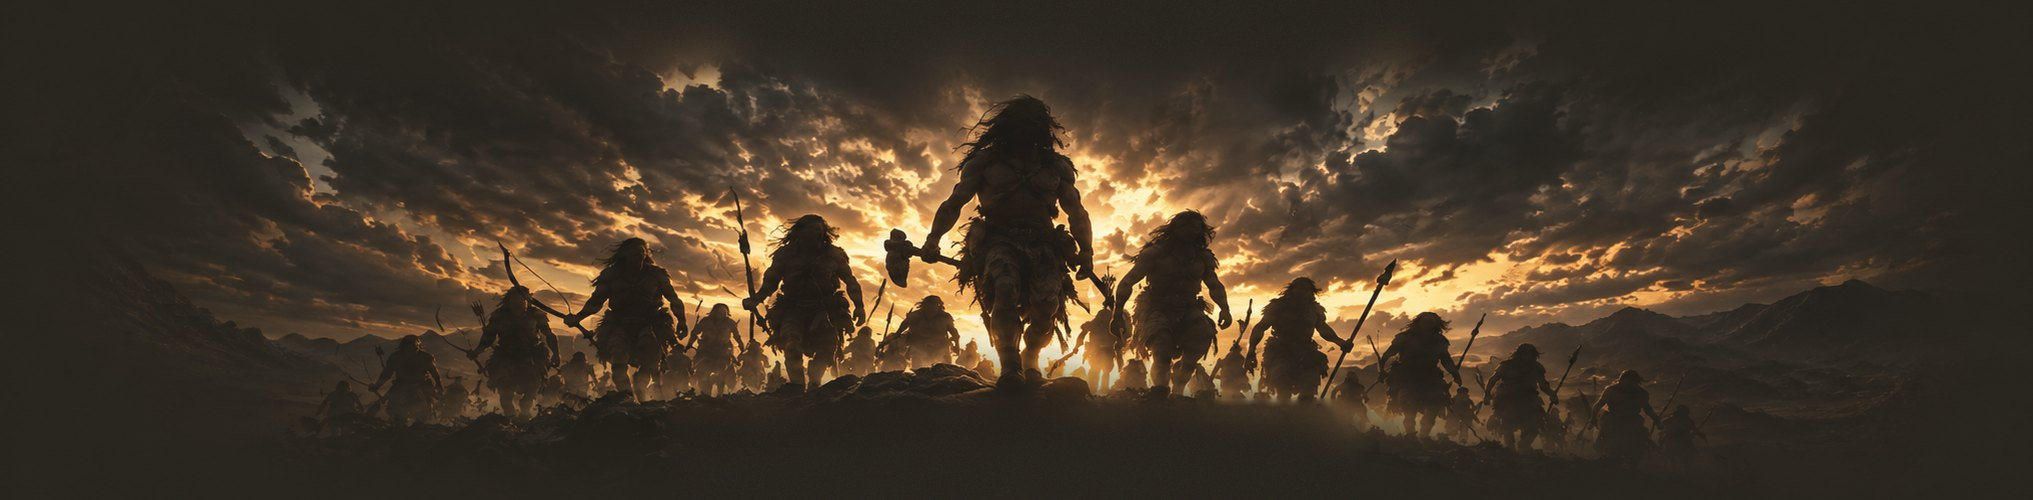
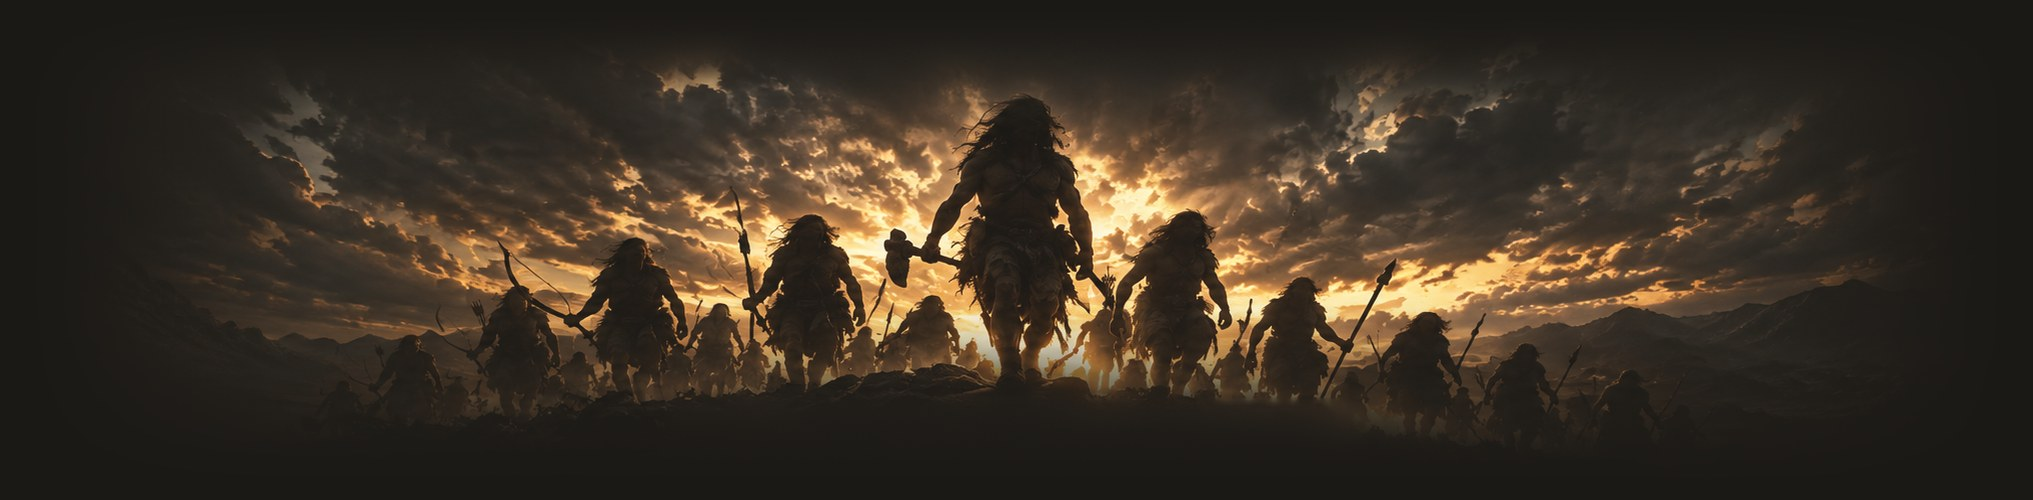
Dawn image: edges baked to page colour, rising gradually into full colour
Claude-Session: https://claude.ai/code/session_01HsxCT5iLPDw7ArFCNnKZ7W

diff --git a/assets/css/site.css b/assets/css/site.css
@@ -107,9 +107,6 @@ html[data-second="zh"] .bi.inline .s[lang="zh"] { display: inline; }
 /* dawn: a band of early humans advancing out of the dawn, set in the flow under the creed */
 .hero .dawn-wrap { display: block; position: relative; width: min(1180px, 100%); margin: 0 auto; pointer-events: none; }
 .hero .dawn { width: 100%; height: auto; aspect-ratio: auto; display: block;
-  -webkit-mask-image: linear-gradient(to bottom, transparent 0, #000 12%, #000 80%, transparent 100%), linear-gradient(to right, transparent 0, #000 10%, #000 90%, transparent 100%);
-  mask-image: linear-gradient(to bottom, transparent 0, #000 12%, #000 80%, transparent 100%), linear-gradient(to right, transparent 0, #000 10%, #000 90%, transparent 100%);
-  -webkit-mask-composite: source-in; mask-composite: intersect;
   animation: dawn-rise 4s ease-out both; }
 @keyframes dawn-rise { from { opacity: 0; } to { opacity: 1; } }
 @media (prefers-reduced-motion: reduce) { .hero .dawn { animation: none; } }
@@ -543,4 +540,4 @@ a.event-row:hover .title { color: var(--copper-light); }
 .register > * { min-width: 0; }
 @media (max-width: 400px) { .heritage-item.is-origin .dish-name { font-size: 32px; } }
 .hero::after { display: none; }
-@media (max-width: 700px) { .hero .dawn-wrap { width: calc(100% + 2 * var(--gutter)); margin: 0 calc(-1 * var(--gutter)); } .hero .dawn { aspect-ratio: 2 / 1; object-fit: cover; object-position: 50% 55%; } }
+@media (max-width: 700px) { .hero .dawn-wrap { width: calc(100% + 2 * var(--gutter)); margin: 0 calc(-1 * var(--gutter)); } .hero .dawn { aspect-ratio: 2 / 1; object-fit: cover; object-position: 50% 55%; -webkit-mask-image: linear-gradient(to right, transparent 0, #000 18%, #000 82%, transparent 100%); mask-image: linear-gradient(to right, transparent 0, #000 18%, #000 82%, transparent 100%); } }

diff --git a/heritage-item.html b/heritage-item.html
@@ -18,7 +18,7 @@
 <link rel="preconnect" href="https://fonts.googleapis.com">
 <link rel="preconnect" href="https://fonts.gstatic.com" crossorigin>
 <link href="https://fonts.googleapis.com/css2?family=Cormorant+Garamond:ital,wght@0,400;0,500;0,600;1,500&family=EB+Garamond:wght@400;500&family=Noto+Serif+KR:wght@400;500&display=swap" rel="stylesheet">
-<link rel="stylesheet" href="assets/css/site.css?v=202610190733">
+<link rel="stylesheet" href="assets/css/site.css?v=202610190738">
 </head>
 <body data-page="heritageitem">
 <header id="site-header"></header>
@@ -27,6 +27,6 @@
 </main>
 <footer id="site-footer"></footer>
 <noscript><p class="noscript">This site needs JavaScript to show its content.</p></noscript>
-<script src="assets/js/site.js?v=202610190733"></script>
+<script src="assets/js/site.js?v=202610190738"></script>
 </body>
 </html>

diff --git a/barbecuers.html b/barbecuers.html
@@ -18,7 +18,7 @@
 <link rel="preconnect" href="https://fonts.googleapis.com">
 <link rel="preconnect" href="https://fonts.gstatic.com" crossorigin>
 <link href="https://fonts.googleapis.com/css2?family=Cormorant+Garamond:ital,wght@0,400;0,500;0,600;1,500&family=EB+Garamond:wght@400;500&family=Noto+Serif+KR:wght@400;500&display=swap" rel="stylesheet">
-<link rel="stylesheet" href="assets/css/site.css?v=202610190733">
+<link rel="stylesheet" href="assets/css/site.css?v=202610190738">
 </head>
 <body data-page="barbecuers">
 <header id="site-header"></header>
@@ -36,6 +36,6 @@
 </main>
 <footer id="site-footer"></footer>
 <noscript><p class="noscript">This site needs JavaScript to show its content.</p></noscript>
-<script src="assets/js/site.js?v=202610190733"></script>
+<script src="assets/js/site.js?v=202610190738"></script>
 </body>
 </html>

diff --git a/federation.html b/federation.html
@@ -18,7 +18,7 @@
 <link rel="preconnect" href="https://fonts.googleapis.com">
 <link rel="preconnect" href="https://fonts.gstatic.com" crossorigin>
 <link href="https://fonts.googleapis.com/css2?family=Cormorant+Garamond:ital,wght@0,400;0,500;0,600;1,500&family=EB+Garamond:wght@400;500&family=Noto+Serif+KR:wght@400;500&display=swap" rel="stylesheet">
-<link rel="stylesheet" href="assets/css/site.css?v=202610190733">
+<link rel="stylesheet" href="assets/css/site.css?v=202610190738">
 </head>
 <body data-page="federation">
 <header id="site-header"></header>
@@ -48,6 +48,6 @@
 </main>
 <footer id="site-footer"></footer>
 <noscript><p class="noscript">This site needs JavaScript to show its content.</p></noscript>
-<script src="assets/js/site.js?v=202610190733"></script>
+<script src="assets/js/site.js?v=202610190738"></script>
 </body>
 </html>

diff --git a/barbecuer.html b/barbecuer.html
@@ -18,7 +18,7 @@
 <link rel="preconnect" href="https://fonts.googleapis.com">
 <link rel="preconnect" href="https://fonts.gstatic.com" crossorigin>
 <link href="https://fonts.googleapis.com/css2?family=Cormorant+Garamond:ital,wght@0,400;0,500;0,600;1,500&family=EB+Garamond:wght@400;500&family=Noto+Serif+KR:wght@400;500&display=swap" rel="stylesheet">
-<link rel="stylesheet" href="assets/css/site.css?v=202610190733">
+<link rel="stylesheet" href="assets/css/site.css?v=202610190738">
 </head>
 <body data-page="barbecuer">
 <header id="site-header"></header>
@@ -27,6 +27,6 @@
 </main>
 <footer id="site-footer"></footer>
 <noscript><p class="noscript">This site needs JavaScript to show its content.</p></noscript>
-<script src="assets/js/site.js?v=202610190733"></script>
+<script src="assets/js/site.js?v=202610190738"></script>
 </body>
 </html>

diff --git a/chronicle.html b/chronicle.html
@@ -18,7 +18,7 @@
 <link rel="preconnect" href="https://fonts.googleapis.com">
 <link rel="preconnect" href="https://fonts.gstatic.com" crossorigin>
 <link href="https://fonts.googleapis.com/css2?family=Cormorant+Garamond:ital,wght@0,400;0,500;0,600;1,500&family=EB+Garamond:wght@400;500&family=Noto+Serif+KR:wght@400;500&display=swap" rel="stylesheet">
-<link rel="stylesheet" href="assets/css/site.css?v=202610190733">
+<link rel="stylesheet" href="assets/css/site.css?v=202610190738">
 </head>
 <body data-page="chronicle">
 <header id="site-header"></header>
@@ -30,6 +30,6 @@
 </main>
 <footer id="site-footer"></footer>
 <noscript><p class="noscript">This site needs JavaScript to show its content.</p></noscript>
-<script src="assets/js/site.js?v=202610190733"></script>
+<script src="assets/js/site.js?v=202610190738"></script>
 </body>
 </html>

diff --git a/404.html b/404.html
@@ -18,7 +18,7 @@
 <link rel="preconnect" href="https://fonts.googleapis.com">
 <link rel="preconnect" href="https://fonts.gstatic.com" crossorigin>
 <link href="https://fonts.googleapis.com/css2?family=Cormorant+Garamond:ital,wght@0,400;0,500;0,600;1,500&family=EB+Garamond:wght@400;500&family=Noto+Serif+KR:wght@400;500&display=swap" rel="stylesheet">
-<link rel="stylesheet" href="assets/css/site.css?v=202610190733">
+<link rel="stylesheet" href="assets/css/site.css?v=202610190738">
 </head>
 <body data-page="notfound">
 <header id="site-header"></header>
@@ -30,6 +30,6 @@
 </main>
 <footer id="site-footer"></footer>
 <noscript><p class="noscript">This site needs JavaScript to show its content.</p></noscript>
-<script src="assets/js/site.js?v=202610190733"></script>
+<script src="assets/js/site.js?v=202610190738"></script>
 </body>
 </html>

diff --git a/heritage.html b/heritage.html
@@ -18,7 +18,7 @@
 <link rel="preconnect" href="https://fonts.googleapis.com">
 <link rel="preconnect" href="https://fonts.gstatic.com" crossorigin>
 <link href="https://fonts.googleapis.com/css2?family=Cormorant+Garamond:ital,wght@0,400;0,500;0,600;1,500&family=EB+Garamond:wght@400;500&family=Noto+Serif+KR:wght@400;500&display=swap" rel="stylesheet">
-<link rel="stylesheet" href="assets/css/site.css?v=202610190733">
+<link rel="stylesheet" href="assets/css/site.css?v=202610190738">
 </head>
 <body data-page="heritage">
 <header id="site-header"></header>
@@ -48,6 +48,6 @@
 </main>
 <footer id="site-footer"></footer>
 <noscript><p class="noscript">This site needs JavaScript to show its content.</p></noscript>
-<script src="assets/js/site.js?v=202610190733"></script>
+<script src="assets/js/site.js?v=202610190738"></script>
 </body>
 </html>

diff --git a/partners.html b/partners.html
@@ -18,7 +18,7 @@
 <link rel="preconnect" href="https://fonts.googleapis.com">
 <link rel="preconnect" href="https://fonts.gstatic.com" crossorigin>
 <link href="https://fonts.googleapis.com/css2?family=Cormorant+Garamond:ital,wght@0,400;0,500;0,600;1,500&family=EB+Garamond:wght@400;500&family=Noto+Serif+KR:wght@400;500&display=swap" rel="stylesheet">
-<link rel="stylesheet" href="assets/css/site.css?v=202610190733">
+<link rel="stylesheet" href="assets/css/site.css?v=202610190738">
 </head>
 <body data-page="partners">
 <header id="site-header"></header>
@@ -36,6 +36,6 @@
 </main>
 <footer id="site-footer"></footer>
 <noscript><p class="noscript">This site needs JavaScript to show its content.</p></noscript>
-<script src="assets/js/site.js?v=202610190733"></script>
+<script src="assets/js/site.js?v=202610190738"></script>
 </body>
 </html>

diff --git a/rankings.html b/rankings.html
@@ -18,7 +18,7 @@
 <link rel="preconnect" href="https://fonts.googleapis.com">
 <link rel="preconnect" href="https://fonts.gstatic.com" crossorigin>
 <link href="https://fonts.googleapis.com/css2?family=Cormorant+Garamond:ital,wght@0,400;0,500;0,600;1,500&family=EB+Garamond:wght@400;500&family=Noto+Serif+KR:wght@400;500&display=swap" rel="stylesheet">
-<link rel="stylesheet" href="assets/css/site.css?v=202610190733">
+<link rel="stylesheet" href="assets/css/site.css?v=202610190738">
 </head>
 <body data-page="rankings">
 <header id="site-header"></header>
@@ -36,6 +36,6 @@
 </main>
 <footer id="site-footer"></footer>
 <noscript><p class="noscript">This site needs JavaScript to show its content.</p></noscript>
-<script src="assets/js/site.js?v=202610190733"></script>
+<script src="assets/js/site.js?v=202610190738"></script>
 </body>
 </html>

diff --git a/pathway.html b/pathway.html
@@ -18,7 +18,7 @@
 <link rel="preconnect" href="https://fonts.googleapis.com">
 <link rel="preconnect" href="https://fonts.gstatic.com" crossorigin>
 <link href="https://fonts.googleapis.com/css2?family=Cormorant+Garamond:ital,wght@0,400;0,500;0,600;1,500&family=EB+Garamond:wght@400;500&family=Noto+Serif+KR:wght@400;500&display=swap" rel="stylesheet">
-<link rel="stylesheet" href="assets/css/site.css?v=202610190733">
+<link rel="stylesheet" href="assets/css/site.css?v=202610190738">
 </head>
 <body data-page="pathway">
 <header id="site-header"></header>
@@ -33,6 +33,6 @@
 </main>
 <footer id="site-footer"></footer>
 <noscript><p class="noscript">This site needs JavaScript to show its content.</p></noscript>
-<script src="assets/js/site.js?v=202610190733"></script>
+<script src="assets/js/site.js?v=202610190738"></script>
 </body>
 </html>

diff --git a/writing.html b/writing.html
@@ -18,7 +18,7 @@
 <link rel="preconnect" href="https://fonts.googleapis.com">
 <link rel="preconnect" href="https://fonts.gstatic.com" crossorigin>
 <link href="https://fonts.googleapis.com/css2?family=Cormorant+Garamond:ital,wght@0,400;0,500;0,600;1,500&family=EB+Garamond:wght@400;500&family=Noto+Serif+KR:wght@400;500&display=swap" rel="stylesheet">
-<link rel="stylesheet" href="assets/css/site.css?v=202610190733">
+<link rel="stylesheet" href="assets/css/site.css?v=202610190738">
 </head>
 <body data-page="writing">
 <header id="site-header"></header>
@@ -27,6 +27,6 @@
 </main>
 <footer id="site-footer"></footer>
 <noscript><p class="noscript">This site needs JavaScript to show its content.</p></noscript>
-<script src="assets/js/site.js?v=202610190733"></script>
+<script src="assets/js/site.js?v=202610190738"></script>
 </body>
 </html>
